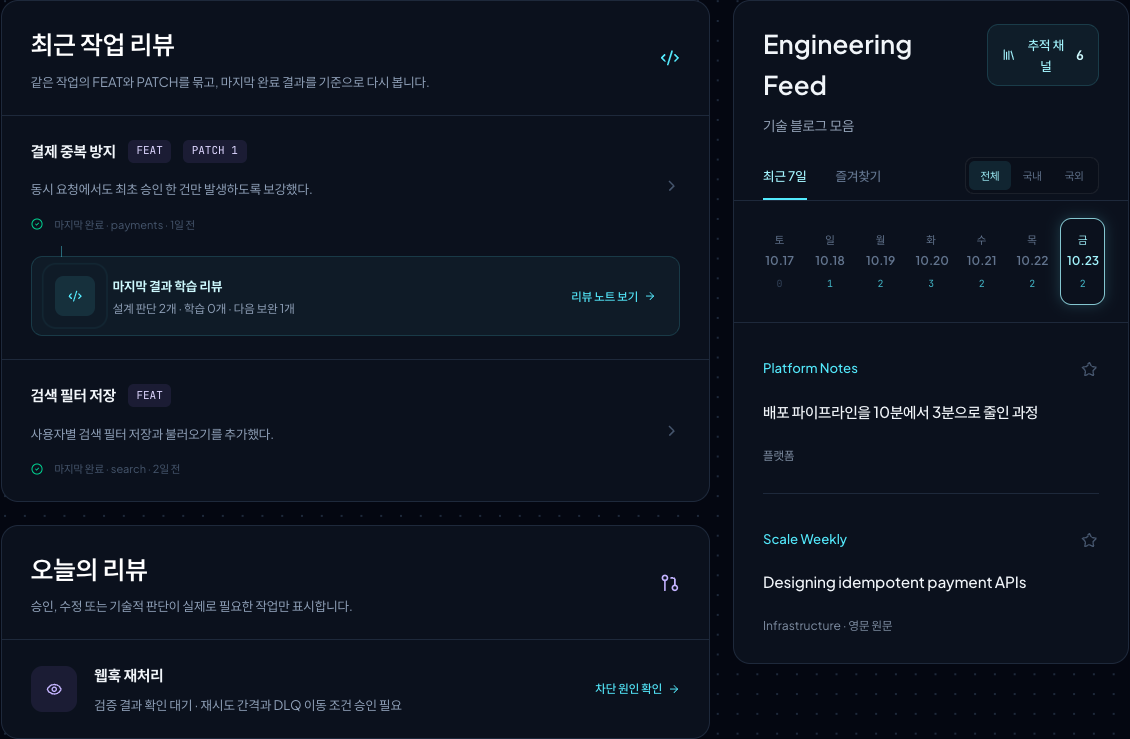
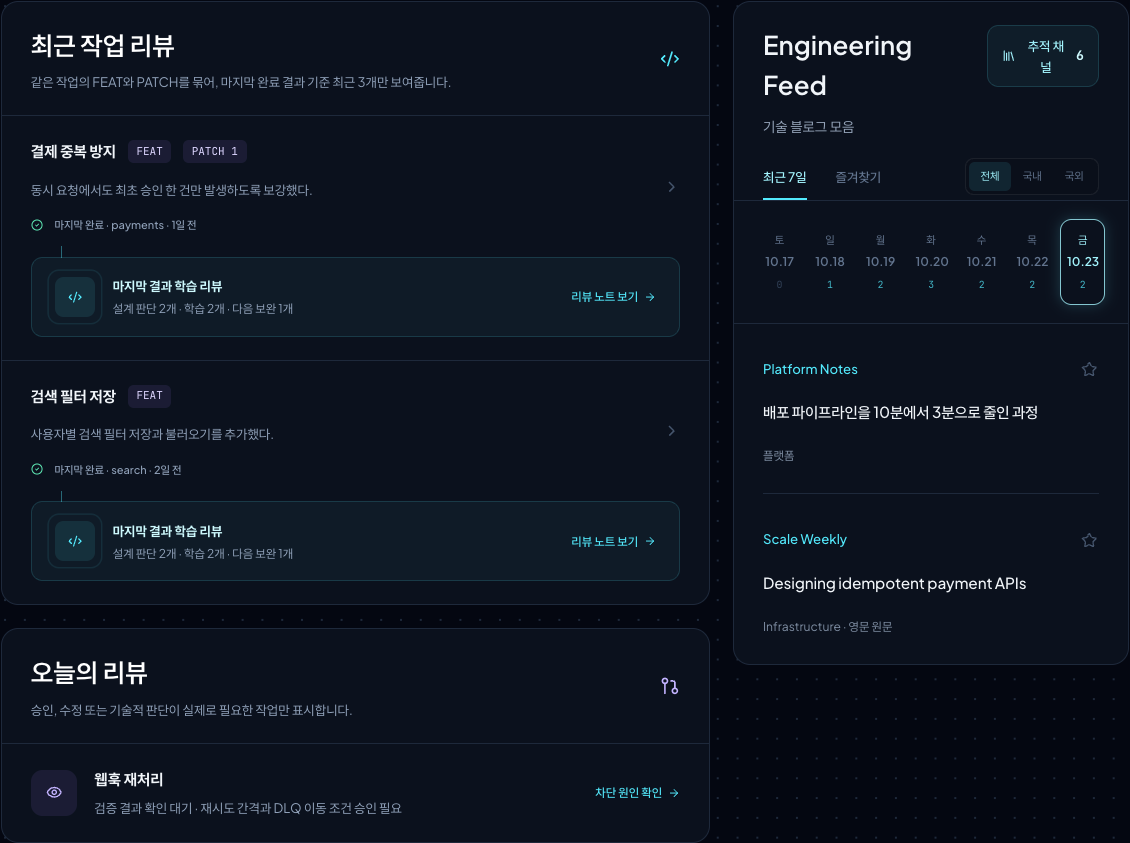
docs: describe the 2D home flow and built-in Weekly
Replace the 3D workroom text and screenshot with the Home work flow, capture the Workspaces floor with its rail to the work summary, and describe Weekly as a Console screen whose schedule is set in Preferences.

diff --git a/README.en.md b/README.en.md
@@ -6,7 +6,7 @@
 
 Sugo runs each feature in this order: requirements and acceptance criteria → implementation → tests → final verification → user approval → docs work → work result report. Each step moves on only after Sugo checks the real test run records and the changed files. A person gives the final approval after reading the diff.
 
-![Console Home: what the main agent and the specialist agents do now](docs/images/console-home.png)
+![Console Home: the work flow from spec to commit](docs/images/console-home.png)
 
 ## Problems it solves
 
@@ -28,7 +28,7 @@ Sugo runs each feature in this order: requirements and acceptance criteria → i
 | Turn a planning draft into an implementable spec and schedule it | Console Schedule, `/sugo:spec-writer` |
 | Connect a later fix to the original task | `/sugo:patch` |
 | Connect changes from a normal chat to an existing task | `/sugo:patch-attach` |
-| Review results and learnings | Console Home learning notes, [weekly](https://github.com/kim-svadoz/weekly-ai-report) reports |
+| Review results and learnings | Console Home learning notes, Console Weekly reports |
 
 Do not use it for one-line fixes or throwaway experiments. Use a normal chat, and connect only the changes you keep with `/sugo:patch-attach`.
 
@@ -92,18 +92,18 @@ Each feature produces a PRD, test records, verification material, and a work res
 | Task | Console | Command |
 | --- | --- | --- |
 | Prepare schedule and spec | Create a schedule in Schedule and attach planning links and screen captures | `/sugo:spec-writer` and `/sugo:feat --spec`, copied from the schedule card |
-| Check progress | Home workroom: current work per agent. Workspaces work floor: step per task | `/sugo:ws-status` |
+| Check progress | Home work flow: the step in progress now. Workspaces work floor: step and finished records per task | `/sugo:ws-status` |
 | Human decisions | Policy and scope questions and approval requests appear in Home and Schedule | — |
 | Approve | In the Agent Canvas, check requirement status, test results, open risks, and the diff | — |
 | Prevent repeats | Add the rule to Workspaces domain rules | `/sugo:checkpoint-sync` writes it to `.claude/rules/` |
 | Later fix | Check the history of the finished task | `/sugo:patch` |
-| Weekly review | Read the weekly report and learning notes in Weekly | Requires the weekly plugin |
+| Weekly review | Read the weekly report and learning notes in Weekly. Set the generation schedule in Preferences | — |
 
 Put one behavior change in each `/sugo:feat`. If a PRD is large, Sugo splits it into subtasks and integrates them.
 
-**Check progress** · tasks that run at the same time in a domain, and the step of each task
+**Check progress** · the step of the selected task, and the finished records of that task
 
-![Workspaces work floor: step per task](docs/images/console-workspaces.png)
+![Workspaces work floor: step and finished records per task](docs/images/console-workspaces.png)
 
 **User approval** · read the verification result and the changed-file diff, then approve or request changes
 
@@ -158,16 +158,18 @@ Arguments are defined in [`sugo/commands/`](sugo/commands/).
 
 | Screen | Content |
 | --- | --- |
-| Home | 3D workroom, work to continue and approval requests, recent finished work and learning notes, engineering-blog feed |
+| Home | Work flow, work to continue and approval requests, recent finished work and learning notes, engineering-blog feed |
 | Workspaces | Projects, domain rules, and history per domain; step per task; Agent Canvas (task graph, patch history, approval evidence, diff) |
 | Schedule | Spec schedule, planning links and memos, deployment state |
-| Weekly | Weekly reports from the [weekly](https://github.com/kim-svadoz/weekly-ai-report) plugin |
+| Weekly | Weekly reports and learning notes |
 | Skills, Playbook | Agents, commands, and skills; usage scenarios |
 | Harness | Coding rules for your projects |
 | Integrations | Git providers, AWS, Pinpoint, plugin API tokens |
-| Preferences | Display name, weather region |
+| Preferences | Display name, weather region, Weekly generation schedule (day and time, Claude model, extra repositories, scheduled-run token) |
 
-The Home 3D workroom shows the current state of one main agent and four specialist agents (code, test, verification, docs) from activity events. Agents that wait sit in the lounge. Agents that work sit at their desks. When an approval request waits, the main agent stands at the user confirmation counter. Select an area to open its details and a link to its page. Without WebGL or with reduced motion, Home shows a 2D map.
+The Home work flow shows the steps from spec to commit in one row. When an activity event arrives, the current step is selected, and the right panel shows what that step does and what it hands on. The cards below open the Harness, domain, and Weekly screens.
+
+The Workspaces work floor shows each task in progress in a domain as its own lane. When you select a lane, the recent work summary below changes to the finished records of that task.
 
 Console data is in `~/.claude/sugo/dashboard/` and stays after updates. If the Console is off, the pipeline continues and sends sync data later.
 
